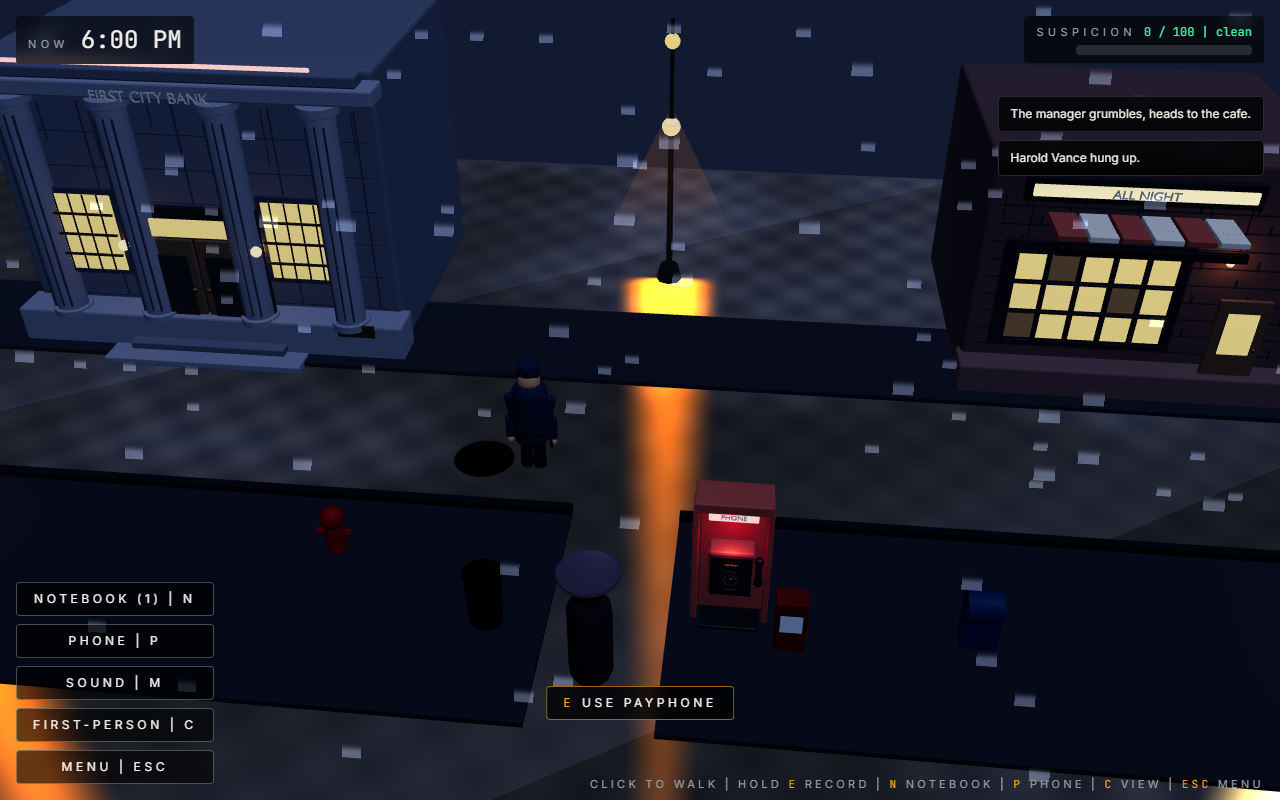
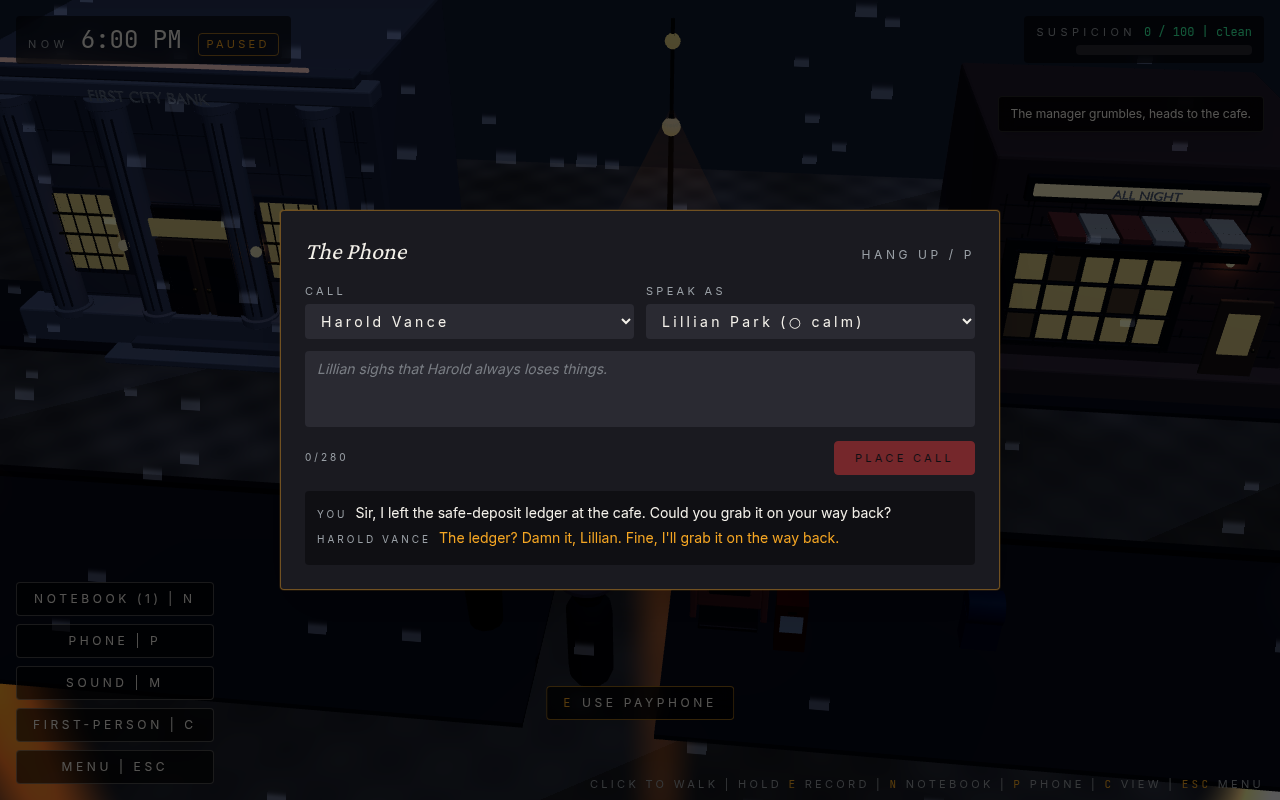
Phone-overhear penalty + e2e timing fix
Calls used to be spatially free — the payphone could be used with anyone
standing right next to the player and there was no cost. Now if a
non-target NPC is in the same scene within 5 units when you place a call,
heat goes up by 6 and the toast names who heard. The phone UI also shows
a live "X is within earshot" warning so the player can wait or move.

This adds genuine spatial planning to the late-game guard-patrol window
(Cole walks through the street area at 6:30-6:50) without breaking any
existing solution path.

Also fixes a timing flake in vt-e2e.cjs where reset() and setPhase("playing")
ran in adjacent page.evaluate() calls without giving GameRoot time to
re-mount the canvas. Adds 300ms settle waits. 60/60 e2e passing.

diff --git a/src/components/game/PhoneUI.tsx b/src/components/game/PhoneUI.tsx
@@ -6,11 +6,26 @@ import { playAudio } from "@/audio/play";
 import { speakStolenText } from "@/audio/npcSpeech";
 import { emotionGlyph } from "@/game/emotionDisplay";
 import { setBranch } from "@/game/npcSchedules";
+import { distance } from "@/game/pathfinding";
 import { resolvePhoneRule, type PhoneRuleEffect } from "@/game/phoneRules";
 import { useGame } from "@/game/store";
 import type { NpcId } from "@/game/types";
 
 const TARGETS: NpcId[] = ["bankManager", "secretary", "bankGuard", "wife"];
+const OVERHEAR_RADIUS = 5;
+
+function findOverhearer(targetNpc: NpcId): NpcId | null {
+  const s = useGame.getState();
+  const playerLoc = s.player.currentLocation;
+  const playerPos = s.player.position;
+  for (const id of Object.keys(s.npcs) as NpcId[]) {
+    if (id === targetNpc) continue;
+    const npc = s.npcs[id];
+    if (npc.currentLocation !== playerLoc) continue;
+    if (distance(npc.location, playerPos) < OVERHEAR_RADIUS) return id;
+  }
+  return null;
+}
 
 function phonePlaceholder(caller: NpcId | null, target: NpcId): string {
   if (!caller) return "Pick a stolen voice, then dial.";
@@ -43,6 +58,11 @@ export default function PhoneUI() {
   const pushCallTurn = useGame((s) => s.pushCallTurn);
   const raiseSuspicion = useGame((s) => s.raiseSuspicion);
   const inGameTime = useGame((s) => s.inGameTime);
+  // Subscribing to npcs makes the overhear warning live-update if a patrolling
+  // NPC walks into earshot while the phone is open.
+  const npcs = useGame((s) => s.npcs);
+  const playerLoc = useGame((s) => s.player.currentLocation);
+  const playerPos = useGame((s) => s.player.position);
 
   const [target, setTarget] = useState<NpcId>("bankManager");
   const [voiceCardId, setVoiceCardId] = useState("");
@@ -130,6 +150,11 @@ export default function PhoneUI() {
         raiseSuspicion(data.raisedSuspicion, `${target} grew suspicious`);
       }
 
+      const overhearer = findOverhearer(target);
+      if (overhearer) {
+        raiseSuspicion(6, `${NPC_PROFILES[overhearer].displayName} overheard the call`);
+      }
+
       const rule = resolvePhoneRule({
         targetNpc: target,
         callerNpc: card.npcId,
@@ -178,6 +203,16 @@ export default function PhoneUI() {
   const callerVoiceNpcId = selectedVoiceCard?.npcId ?? null;
   const placeholder = phonePlaceholder(callerVoiceNpcId, target);
   const hasVoices = inventory.length > 0;
+  // Live overhear check — recomputes whenever npcs / player position change.
+  const nearbyOverhearer = (() => {
+    for (const id of Object.keys(npcs) as NpcId[]) {
+      if (id === target) continue;
+      const npc = npcs[id];
+      if (npc.currentLocation !== playerLoc) continue;
+      if (distance(npc.location, playerPos) < OVERHEAR_RADIUS) return id;
+    }
+    return null;
+  })();
 
   return (
     <div
@@ -241,6 +276,16 @@ export default function PhoneUI() {
         {!hasVoices && (
           <div className="mt-4 rounded border border-noir-amber/30 bg-black/35 px-3 py-3 text-sm text-noir-fog">
             Record someone first. The best leads are in the notebook schedule.
+          </div>
+        )}
+
+        {hasVoices && nearbyOverhearer && (
+          <div
+            className="mt-4 rounded border border-noir-neon/45 bg-noir-neon/5 px-3 py-2 text-xs text-noir-neon"
+            role="status"
+            aria-live="polite"
+          >
+            {NPC_PROFILES[nearbyOverhearer].displayName} is within earshot. Placing the call now will draw eyes.
           </div>
         )}
 
